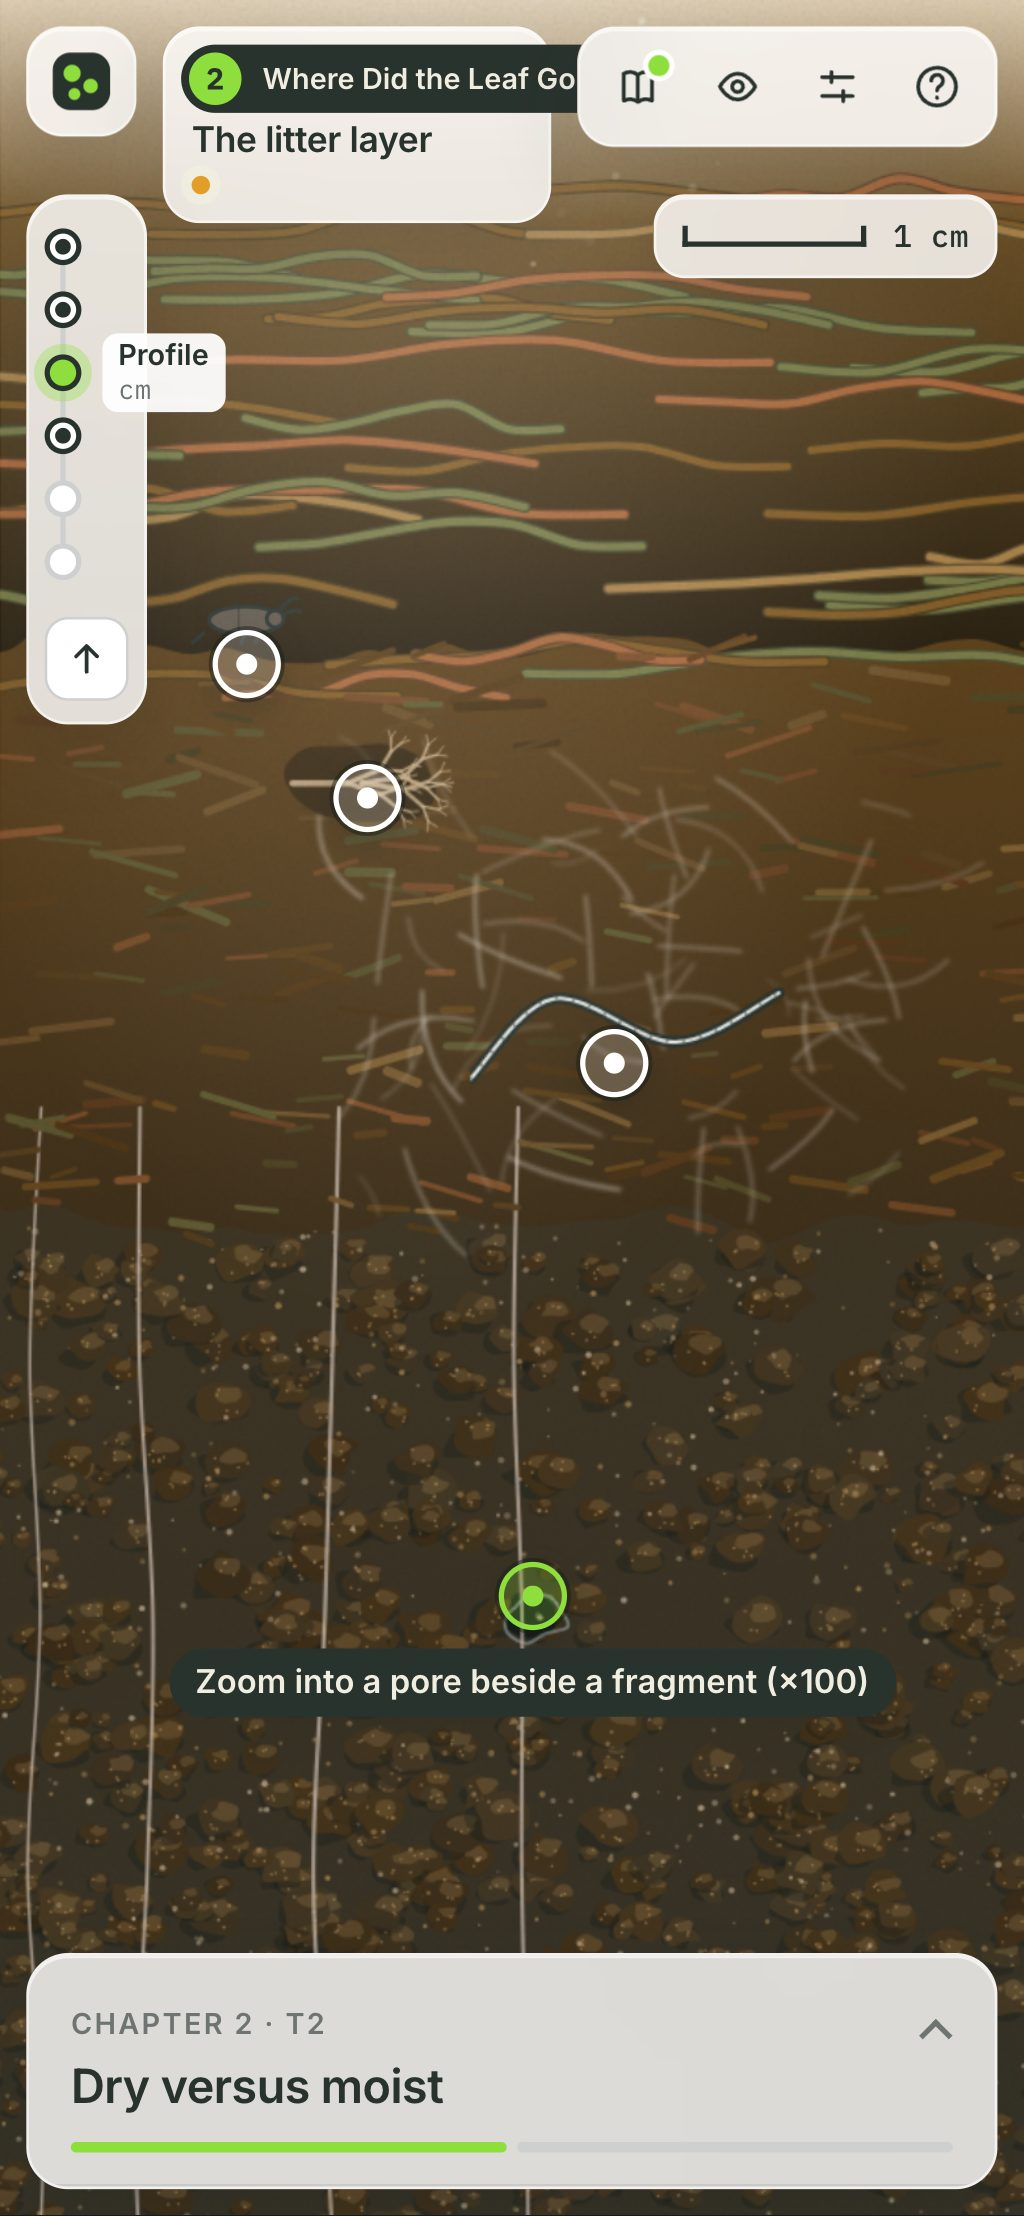
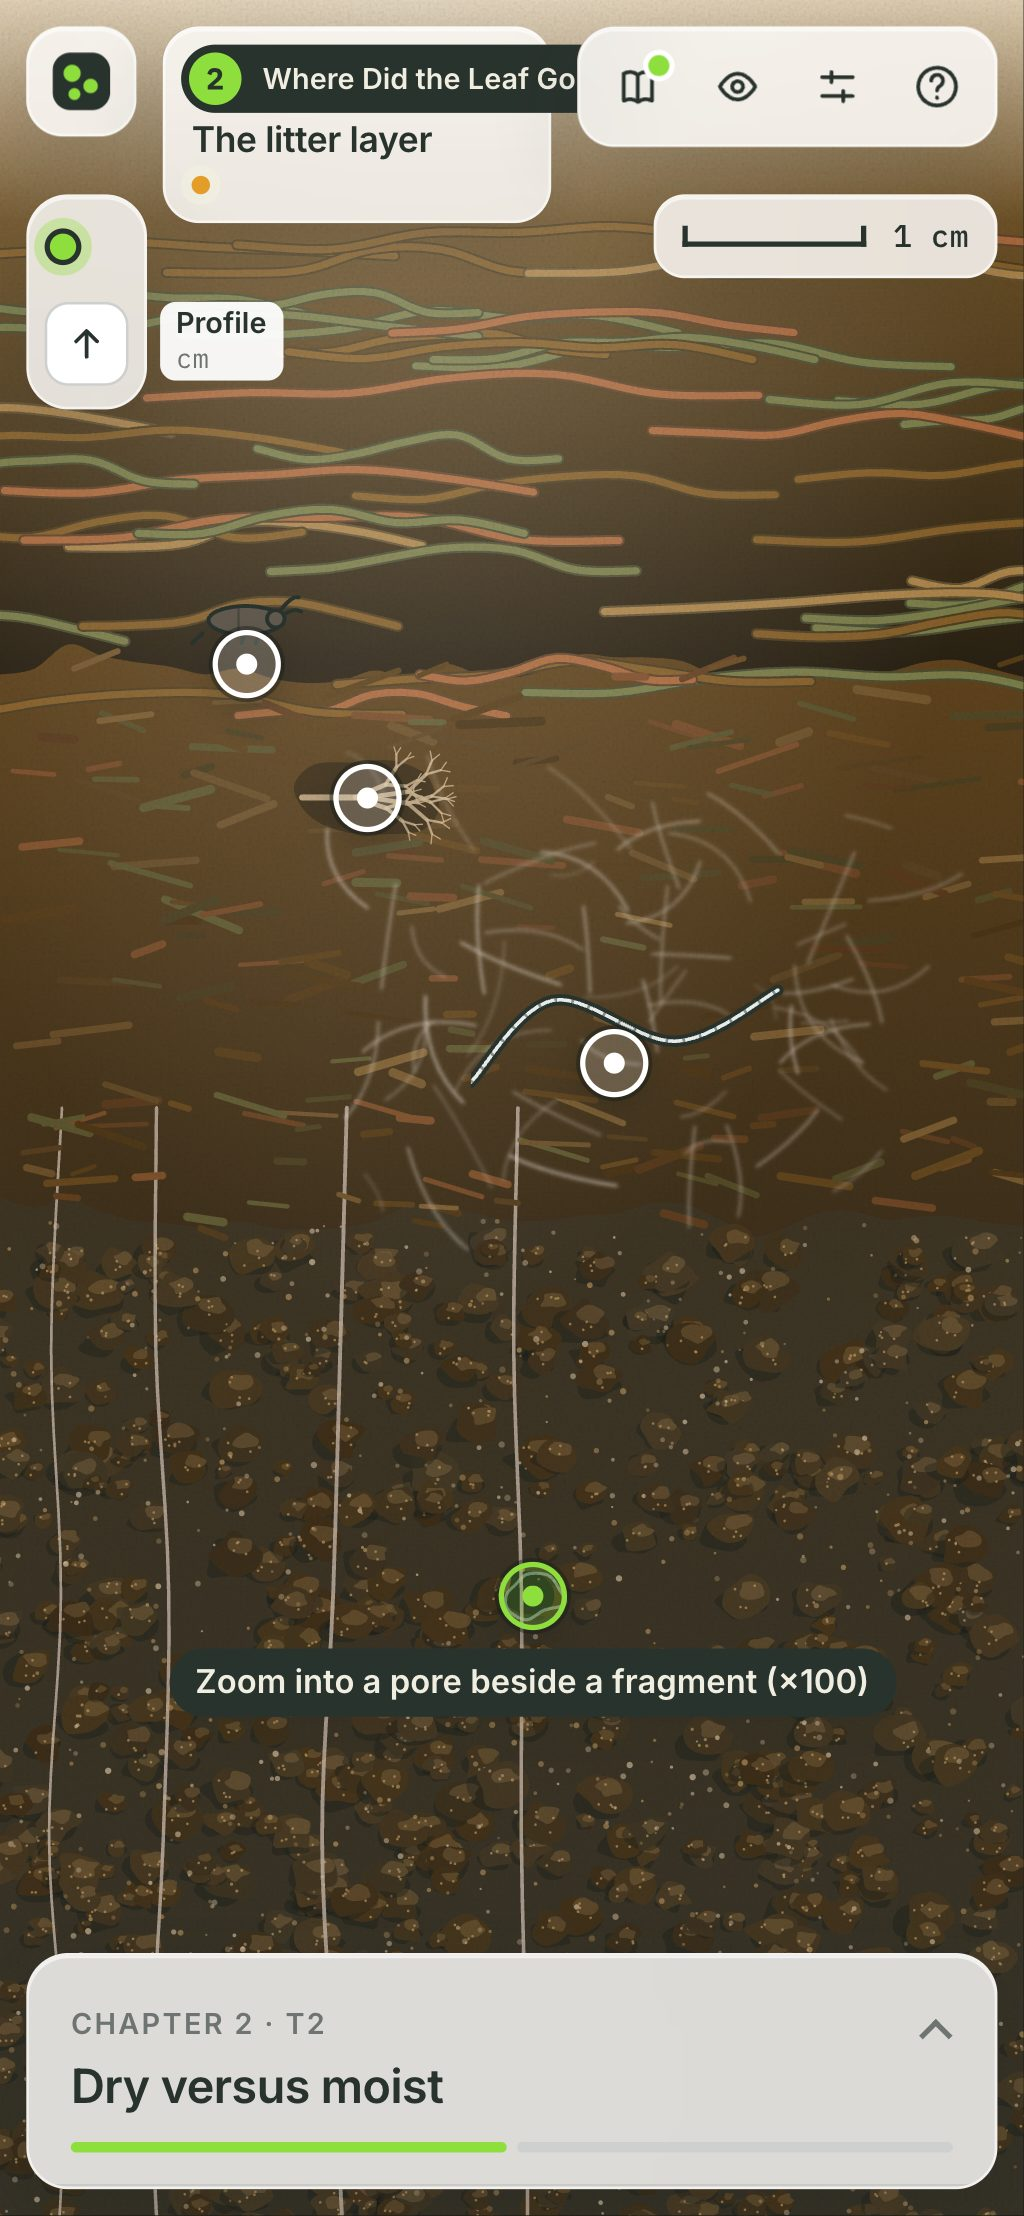
fix(world): phone composition with portrait plates, 45 % sheet and collapsed ladder (R04) (#12)

diff --git a/src/world/painter/recipes/handful.ts b/src/world/painter/recipes/handful.ts
@@ -10,6 +10,11 @@ import { crumb } from "./plants";
 export function handful(c: Ctx, scale: number): RecipeOut {
   const { w, h, u } = c;
   const r = rngFor(c.seed, 4);
+  // Portrait (phones): the mound sits in the upper half, clear of the mission sheet,
+  // and heap-relative heights are squeezed so the root and leaf stay on it.
+  // Hotspot anchors in the prologue's `portrait` fields follow `fy`.
+  const portrait = h > w;
+  const fy = (y: number) => (portrait ? 0.36 + (y - 0.58) * 0.45 : y);
 
   // Out-of-focus field and dawn sky behind.
   const back = new Svg(w, h);
@@ -20,10 +25,10 @@ export function handful(c: Ctx, scale: number): RecipeOut {
     h,
     `fill="url(#${linear(back, [
       [0, mix(W.skyHigh, W.water, 0.15)],
-      [0.3, mix(W.skyLow, W.sand, 0.3)],
-      [0.42, mix(W.foliage, W.skyLow, 0.5)],
-      [0.7, mix(W.loam, W.foliage, 0.3)],
-      [1, W.topsoil],
+      [fy(0.3), mix(W.skyLow, W.sand, 0.3)],
+      [fy(0.42), mix(W.foliage, W.skyLow, 0.5)],
+      [fy(0.7), mix(W.loam, W.foliage, 0.3)],
+      [fy(1), W.topsoil],
     ])})"`,
   );
   const bb = blurDef(back, u * 0.03);
@@ -67,8 +72,8 @@ export function handful(c: Ctx, scale: number): RecipeOut {
   // The heap: a dark body, then crumbs back to front.
   const heap = new Svg(w, h);
   const cx = 0.5 * w;
-  const cy = 0.58 * h;
-  const R = Math.min(w * 0.36, u * 0.48);
+  const cy = fy(0.58) * h;
+  const R = portrait ? w * 0.42 : Math.min(w * 0.36, u * 0.48);
   heap.path(
     blob(r, cx - R * 0.05, cy + R * 0.42, R * 1.15, R * 0.18, 0.1),
     `fill="${W.dark}" opacity="0.45"`,
@@ -104,15 +109,15 @@ export function handful(c: Ctx, scale: number): RecipeOut {
     crumb(heap, r, x, y, rad, mix(mix(W.topsoil, W.humus, range(r, 0.1, 0.6)), W.loam, range(r, 0, 0.35)));
   }
   // The crumb in the foreground, and the pore the portal opens.
-  crumb(heap, r, 0.43 * w, 0.5 * h, u * 0.05, mix(W.topsoil, W.loam, 0.35));
-  crumb(heap, r, 0.56 * w, 0.44 * h, u * 0.055, mix(W.topsoil, W.loam, 0.25));
+  crumb(heap, r, 0.43 * w, fy(0.5) * h, u * 0.05, mix(W.topsoil, W.loam, 0.35));
+  crumb(heap, r, 0.56 * w, fy(0.44) * h, u * 0.055, mix(W.topsoil, W.loam, 0.25));
   // A crevice between crumbs: dark, irregular, with a film of water on its lip.
   heap.path(
-    `M${0.535 * w},${0.43 * h}q${u * 0.012},${u * 0.006} ${u * 0.022},${-u * 0.002}q${u * 0.01},${u * 0.004} ${u * 0.02},${u * 0.016}q${-u * 0.02},${u * 0.006} ${-u * 0.034},${-u * 0.004}z`,
+    `M${0.535 * w},${fy(0.43) * h}q${u * 0.012},${u * 0.006} ${u * 0.022},${-u * 0.002}q${u * 0.01},${u * 0.004} ${u * 0.02},${u * 0.016}q${-u * 0.02},${u * 0.006} ${-u * 0.034},${-u * 0.004}z`,
     `fill="${W.dark}"`,
   );
   heap.path(
-    `M${0.54 * w},${0.432 * h}q${u * 0.012},${u * 0.005} ${u * 0.02},0`,
+    `M${0.54 * w},${fy(0.432) * h}q${u * 0.012},${u * 0.005} ${u * 0.02},0`,
     `stroke="${W.film}" stroke-width="1" fill="none" opacity="0.55"`,
   );
 
@@ -125,7 +130,7 @@ export function handful(c: Ctx, scale: number): RecipeOut {
     [0.55, 0.58],
     [0.66, 0.66],
     [0.74, 0.72],
-  ].map(([x, y]) => [x! * w, y! * h] as Pt);
+  ].map(([x, y]) => [x! * w, fy(y!) * h] as Pt);
   detail.path(
     smoothOpen(root),
     `fill="none" stroke="${mix(W.dark, W.topsoil, 0.4)}" stroke-width="${u * 0.006}" stroke-linecap="round" opacity="0.6"`,
@@ -142,11 +147,11 @@ export function handful(c: Ctx, scale: number): RecipeOut {
     );
   }
   detail.path(
-    blob(r, 0.63 * w, 0.62 * h, u * 0.022, u * 0.012, 0.35),
+    blob(r, 0.63 * w, fy(0.62) * h, u * 0.022, u * 0.012, 0.35),
     `fill="${mix(W.subsoil, W.oxide, 0.35)}"`,
   );
   detail.path(
-    `M${0.615 * w},${0.62 * h}L${0.645 * w},${0.618 * h}`,
+    `M${0.615 * w},${fy(0.62) * h}L${0.645 * w},${fy(0.618) * h}`,
     `stroke="${mix(W.subsoil, W.pale, 0.3)}" stroke-width="0.8"`,
   );
   stipple(
@@ -154,10 +159,10 @@ export function handful(c: Ctx, scale: number): RecipeOut {
     c,
     r,
     900,
-    { x0: 0.2, y0: 0.28, x1: 0.8, y1: 0.85 },
+    { x0: 0.2, y0: fy(0.28), x1: 0.8, y1: fy(0.85) },
     [W.sand, mix(W.sand, W.pale, 0.5)],
     [0.4, 1.1],
-    (x, y) => ((x - 0.5) ** 2 / 0.09 + (y - 0.6) ** 2 / 0.06 < 1 ? 1 : 0),
+    (x, y) => ((x - 0.5) ** 2 / 0.09 + (y - fy(0.6)) ** 2 / (0.06 * (fy(1) - fy(0)) ** 2) < 1 ? 1 : 0),
     [0.35, 0.8],
   );
 

diff --git a/src/world/painter/recipes/pores.ts b/src/world/painter/recipes/pores.ts
@@ -139,29 +139,48 @@ function deep(c: Ctx, r: Rng, ground: string): Svg {
   return s;
 }
 
+/** Where the pore's subjects sit, in plate units. */
+const PORE_LANDSCAPE = {
+  big: { x: 0.16, y: 0.8 },
+  bacterium: { x: 0.46, y: 0.6 },
+  amoeba: { x: 0.7, y: 0.42 },
+  hypha: { x: 0.27, y: 0.24 },
+  film: { x: 0.56, y: 0.75 },
+};
+const PORE_PORTRAIT: typeof PORE_LANDSCAPE = {
+  big: { x: 0.2, y: 0.72 },
+  bacterium: { x: 0.7, y: 0.5 },
+  amoeba: { x: 0.3, y: 0.42 },
+  hypha: { x: 0.6, y: 0.24 },
+  film: { x: 0.56, y: 0.63 },
+};
+
 export function pore(c: Ctx, scale: number): RecipeOut {
   const { w, h, u } = c;
   const r = rngFor(c.seed, 5);
+  // Portrait (phones): hypha, amoeba and bacterium in the upper half, clear of the
+  // ladder and the mission sheet. The prologue's `portrait` anchors follow `at`.
+  const at = h > w ? PORE_PORTRAIT : PORE_LANDSCAPE;
   const back = deep(c, r, W.dark);
   const grains = new Svg(w, h);
   const film = new Svg(w, h);
-  const big: Grain = { x: 0.16 * w, y: 0.8 * h, rad: u * 0.17, tone: W.sand, d: "" };
+  const big: Grain = { x: at.big.x * w, y: at.big.y * h, rad: u * 0.17, tone: W.sand, d: "" };
   big.d = grainPath(r, big.x, big.y, big.rad);
   const g = pack(
     c,
     r,
     [
-      { x: 0.46, y: 0.6, r: 0.06 },
-      { x: 0.7, y: 0.42, r: 0.13 },
-      { x: 0.27, y: 0.3, r: 0.1 },
-      { x: 0.58, y: 0.78, r: 0.03 },
+      { ...at.bacterium, r: 0.06 },
+      { ...at.amoeba, r: 0.13 },
+      { x: at.hypha.x, y: at.hypha.y + 0.06, r: 0.1 },
+      { x: at.film.x + 0.02, y: at.film.y + 0.03, r: 0.03 },
     ],
     [big],
   );
   // A water-filled pore around the amoeba; the hypha's gap stays air.
   const pb = blurDef(film, u * 0.025);
   film.path(
-    blob(r, 0.7 * w, 0.43 * h, u * 0.2, u * 0.17, 0.25),
+    blob(r, at.amoeba.x * w, (at.amoeba.y + 0.01) * h, u * 0.2, u * 0.17, 0.25),
     `fill="url(#${radial(film, [
       [0, mix(W.water, W.deep, 0.3), 0.8],
       [1, mix(W.water, W.deep, 0.6), 0.4],
@@ -170,7 +189,7 @@ export function pore(c: Ctx, scale: number): RecipeOut {
   menisci(film, c, g);
   drawGrains(grains, film, c, r, g);
   film.path(
-    blob(r, 0.56 * w, 0.75 * h, u * 0.08, u * 0.025, 0.2),
+    blob(r, at.film.x * w, at.film.y * h, u * 0.08, u * 0.025, 0.2),
     `fill="${mix(W.water, W.film, 0.4)}" opacity="0.55"`,
   );
 
@@ -178,8 +197,8 @@ export function pore(c: Ctx, scale: number): RecipeOut {
     bacterium(
       {
         id: "bacterium",
-        x: 0.46 * w,
-        y: 0.6 * h,
+        x: at.bacterium.x * w,
+        y: at.bacterium.y * h,
         motion: "breathe",
         phase: 0.1,
         parallax: 0.6,
@@ -192,8 +211,8 @@ export function pore(c: Ctx, scale: number): RecipeOut {
     amoeba(
       {
         id: "amoeba",
-        x: 0.7 * w,
-        y: 0.42 * h,
+        x: at.amoeba.x * w,
+        y: at.amoeba.y * h,
         motion: "wiggle",
         phase: 0.4,
         parallax: 0.6,
@@ -203,7 +222,7 @@ export function pore(c: Ctx, scale: number): RecipeOut {
       u * 0.075,
     ),
     hypha(
-      { id: "hypha", x: 0.27 * w, y: 0.24 * h, motion: "sway", phase: 0.7, parallax: 0.6, scale },
+      { id: "hypha", x: at.hypha.x * w, y: at.hypha.y * h, motion: "sway", phase: 0.7, parallax: 0.6, scale },
       [
         [0, u * 0.32],
         [u * 0.12, u * 0.1],

diff --git a/src/content/chapters/prologue/index.ts b/src/content/chapters/prologue/index.ts
@@ -118,6 +118,7 @@ const prologueScenes: Scene[] = [
         label: "A crumb",
         kind: "scan",
         anchor: { x: 0.43, y: 0.5 },
+        portrait: { x: 0.43, y: 0.324 },
         scan: "Crumbs are aggregates: mineral grains glued together by roots, fungal threads and microbial slime. Between and inside them are gaps.",
       },
       {
@@ -125,6 +126,7 @@ const prologueScenes: Scene[] = [
         label: "Zoom into a pore (×100)",
         kind: "portal",
         anchor: { x: 0.56, y: 0.44 },
+        portrait: { x: 0.56, y: 0.297 },
         to: "p-pore",
         requires: "p-m1-done",
       },
@@ -155,6 +157,7 @@ const prologueScenes: Scene[] = [
         label: "Bacterium",
         kind: "scan",
         anchor: { x: 0.46, y: 0.6 },
+        portrait: { x: 0.7, y: 0.5 },
         card: "bacteria-dormant",
         scan: "It is not moving, not dividing, barely using energy. This one is dormant. Most cells here are asleep.",
       },
@@ -163,6 +166,7 @@ const prologueScenes: Scene[] = [
         label: "Naked amoeba",
         kind: "scan",
         anchor: { x: 0.7, y: 0.42 },
+        portrait: { x: 0.3, y: 0.42 },
         card: "amoeba",
         scan: "An amoeba, about 30 µm across, flowing along the water film. It hunts bacteria. Later, you can become one.",
       },
@@ -171,6 +175,7 @@ const prologueScenes: Scene[] = [
         label: "Fungal thread",
         kind: "scan",
         anchor: { x: 0.26, y: 0.32 },
+        portrait: { x: 0.59, y: 0.28 },
         card: "fungi-sap",
         scan: "A fungal hypha crosses an air-filled gap that no bacterium could swim across.",
       },
@@ -179,6 +184,7 @@ const prologueScenes: Scene[] = [
         label: "Mineral grain",
         kind: "scan",
         anchor: { x: 0.18, y: 0.72 },
+        portrait: { x: 0.22, y: 0.66 },
         card: "mineral-grains",
         scan: "A sand grain: broken rock, fixed in size for centuries. The soil's skeleton.",
       },
@@ -187,6 +193,7 @@ const prologueScenes: Scene[] = [
         label: "Water film",
         kind: "scan",
         anchor: { x: 0.58, y: 0.75 },
+        portrait: { x: 0.58, y: 0.63 },
         card: "water-film",
         scan: "A film of water, often much thinner than a bacterium. Swimmers and dissolved food move only where it is thick and continuous.",
       },

diff --git a/src/styles/app.css b/src/styles/app.css
@@ -361,6 +361,13 @@ button {
   left: calc(var(--vtx, 0px) + var(--x) * var(--vw, 100vw) * var(--vs, 1));
   top: calc(var(--vty, 0px) + var(--y) * var(--vh, 100vh) * var(--vs, 1));
 }
+/* Portrait plates (h > w) use the recipes' portrait anchors. */
+@media (max-aspect-ratio: 999/1000) {
+  .scene-outline li {
+    left: calc(var(--vtx, 0px) + var(--px) * var(--vw, 100vw) * var(--vs, 1));
+    top: calc(var(--vty, 0px) + var(--py) * var(--vh, 100vh) * var(--vs, 1));
+  }
+}
 .hotspot {
   position: absolute;
   transform: translate(-50%, -50%);
@@ -2172,10 +2179,27 @@ input[type="range"] {
   .rung-label {
     display: none;
   }
+  /* The ladder collapses to the current rung; the others stay for screen readers. */
+  .ladder li:not([data-here="true"]) {
+    position: absolute;
+    width: 1px;
+    height: 1px;
+    overflow: hidden;
+    clip: rect(0 0 0 0);
+  }
+  /* Its label sits beside the card's foot, clear of the scale bar. */
+  .ladder ol,
+  .ladder li[data-here="true"] {
+    position: static;
+  }
+  .ladder ol::before {
+    display: none;
+  }
   .ladder li[data-here="true"] .rung-label {
     display: flex;
     position: absolute;
-    left: 22px;
+    left: calc(100% + 6px);
+    bottom: 10px;
     white-space: nowrap;
     background: var(--glass-strong);
     padding: 2px 6px;
@@ -2200,7 +2224,7 @@ input[type="range"] {
     right: var(--hud-gap);
     bottom: var(--hud-gap);
     width: auto;
-    max-height: 52%;
+    max-height: 45%;
   }
   .mission[data-open="false"] {
     max-height: none;

diff --git a/src/world/painter/painter.test.ts b/src/world/painter/painter.test.ts
@@ -1,6 +1,6 @@
 import { createHash } from "node:crypto";
 import { describe, expect, it } from "vitest";
-import { SCENES } from "../../content";
+import { SCENES, scene } from "../../content";
 import { composeStatic, hasRecipe, paint } from ".";
 
 const hash = (s: string) => createHash("sha256").update(s).digest("hex");
@@ -32,5 +32,22 @@ describe("painter", () => {
     expect(hash(composeStatic(paint("pore", 1, 800, 600)))).not.toBe(
       hash(composeStatic(paint("pore", 2, 800, 600))),
     );
+  });
+
+  // R04: on a phone the mission sheet takes the lower 45 %, so the subject sits above it.
+  it("keeps portrait subjects above the phone sheet, where their anchors say", () => {
+    for (const id of ["p-handful", "p-pore"]) {
+      for (const o of scene(id)!.objects) {
+        if (["grain", "film"].includes(o.id)) continue;
+        expect(o.portrait?.y, `${id} ${o.id}`).toBeLessThan(0.55);
+      }
+    }
+    const plate = paint("pore", 37, 390, 844);
+    for (const id of ["hypha", "amoeba", "bacterium"]) {
+      const s = plate.sprites.find((x) => x.id === id)!;
+      const a = scene("p-pore")!.objects.find((o) => o.id === id)!.portrait!;
+      expect(Math.abs(s.x / plate.w - a.x), id).toBeLessThan(0.02);
+      expect(Math.abs(s.y / plate.h - a.y), id).toBeLessThan(0.05);
+    }
   });
 });

diff --git a/src/world/World.tsx b/src/world/World.tsx
@@ -25,14 +25,14 @@ interface Props {
   onTooSlow?: () => void;
 }
 
-function arrival(prev: string | null, next: string): Arrival {
+function arrival(prev: string | null, next: string, portrait: boolean): Arrival {
   if (!prev) return { kind: "cut" };
   const p = sceneById(prev);
   const n = sceneById(next);
   const down = p?.objects.find((o) => o.to === next);
-  if (down) return { kind: "in", anchor: down.anchor };
+  if (down) return { kind: "in", anchor: (portrait && down.portrait) || down.anchor };
   const up = n?.objects.find((o) => o.to === prev);
-  if (up) return { kind: "out", anchor: up.anchor };
+  if (up) return { kind: "out", anchor: (portrait && up.portrait) || up.anchor };
   return { kind: "cut" };
 }
 
@@ -135,7 +135,8 @@ export function World({ sceneId, reduced, forceStatic, dim, children, ref, onRea
     if (mode === "pixi") {
       const st = stage.current;
       if (!st) return;
-      const how = arrival(prev.current, sceneId);
+      const el = host.current;
+      const how = arrival(prev.current, sceneId, !!el && el.clientHeight > el.clientWidth);
       prev.current = sceneId;
       setBusy(true);
       void st.show(s.recipe, s.seed, how).then(() => {

diff --git a/src/ui/Hotspots.tsx b/src/ui/Hotspots.tsx
@@ -22,7 +22,17 @@ export function Hotspots({ objects, scanned, highlight, onActivate }: Props) {
       {objects.map((o) => {
         const done = o.kind === "scan" && scanned(o.id);
         return (
-          <li key={o.id} style={{ "--x": o.anchor.x, "--y": o.anchor.y } as CSSProperties}>
+          <li
+            key={o.id}
+            style={
+              {
+                "--x": o.anchor.x,
+                "--y": o.anchor.y,
+                "--px": o.portrait?.x ?? o.anchor.x,
+                "--py": o.portrait?.y ?? o.anchor.y,
+              } as CSSProperties
+            }
+          >
             <button
               type="button"
               className="hotspot"

diff --git a/src/content/schema.ts b/src/content/schema.ts
@@ -82,6 +82,8 @@ export interface SceneObject {
   label: string;
   kind: "scan" | "portal" | "action" | "glimpse";
   anchor: { x: number; y: number };
+  /** Anchor on a portrait plate (h > w), where the recipe has a portrait branch. */
+  portrait?: { x: number; y: number };
   /** Scan text: what the naturalist notices. */
   scan?: string;
   /** Field card unlocked (partially) by scanning. */

diff --git a/docs/backlog.md b/docs/backlog.md
@@ -132,7 +132,7 @@ Each is one PR, green on `mise run check`; visual ones also run `mise run e2e` a
 - **Acceptance:** a unit test drives `govern` with synthetic frame times and sees all three steps within 6 s; a Playwright run with `--use-angle=swiftshader` ends in static mode; `mise run check` green.
 - **Depends on:** —. Feeds T15.
 
-### R04 — Phone composition: observe step and portrait plates (P phone)
+### R04 — Phone composition: observe step and portrait plates (P phone) · **done**
 
 - **Problem:** on a 390 px phone the observe step's sheet covers the handful (one crumb visible); the handful's portal crumb floats and the root runs into empty space; the ladder covers the pore's hypha.
 - **Direction:** a `portrait` branch in the `handful` and `pores` recipes (`src/world/painter/recipes/`) when `h > w`, anchoring the mound and hypha in the upper half; the mission sheet on phones caps at 45 % and the camera target shifts up while a step needs the scene; ladder collapses to the current rung on phones.
